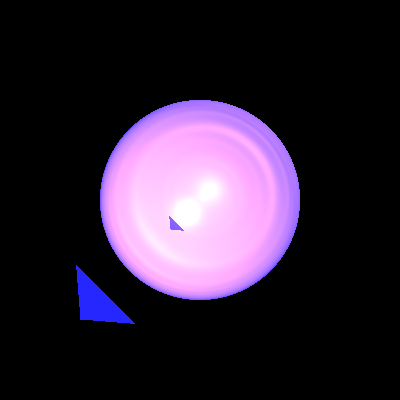
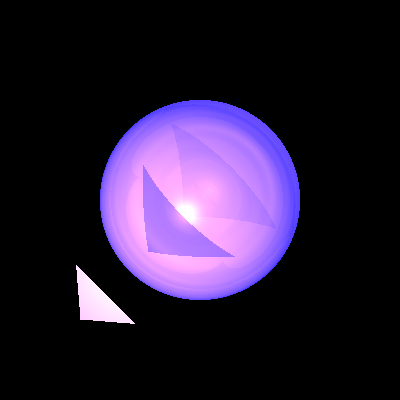
baratin encore une fois

Changed region(s): [[0.24, 0.24, 0.75, 0.75], [0.18, 0.66, 0.33, 0.81]]

diff --git a/src/renderer/RayTracerBasic.java b/src/renderer/RayTracerBasic.java
@@ -1,8 +1,9 @@
 package renderer;
 
+import geometries.Geometry;
 import geometries.Intersectable.*;
-import primitives.lighting.LightSource;
 import primitives.*;
+import primitives.lighting.LightSource;
 import scene.Scene;
 
 import java.util.List;
@@ -12,7 +13,6 @@ import static primitives.Util.isZero;
 
 public class RayTracerBasic extends RayTracer {
 
-    //those two methods will help us for the stop conditions in the recursion
     private static final double EPS = 0.1;
     private static final double MIN_CALC_COLOR_K = 0.001;
     private static final int MAX_CALC_COLOR_LEVEL = 10;
@@ -37,6 +37,12 @@ public class RayTracerBasic extends RayTracer {
                 .add(scene.getAmbientLight().getIntensity());
     }
 
+    //    private Color calcColor(GeoPoint gp, Ray ray) {
+//        Color color = scene.getAmbientLight().getIntensity();
+//        color = color.add(calcLocalEffects(gp, ray));
+//
+//        return color;
+//    }
     private Color calcColor(GeoPoint geoPoint, Ray ray, int level, Double3 k) {
         Color color = geoPoint.geometry.getEmission();
 
@@ -51,14 +57,14 @@ public class RayTracerBasic extends RayTracer {
         }
         Material material = geoPoint.geometry.getMaterial();
         color = color.add(calcLocalEffects(geoPoint, material, n, v, nv, k));
-        return 1 == level ? color : color.add(calcGlobalEffects(geoPoint, material, n, v, nv, level, k));
+        return 1 == level ? color : color.add(calcGlobalEffects(geoPoint, material,n,v,nv, level, k));
     }
 
     /**
      * //add here the lights effects
      *
-     * @param gp geopoint of the intersection
-     * @param v  ray direction
+     * @param gp  geopoint of the intersection
+     * @param v ray direction
      * @return resulting color with diffuse and specular
      */
     private Color calcLocalEffects(GeoPoint gp, Material material, Vector n, Vector v, double nv, Double3 k) {
@@ -70,12 +76,13 @@ public class RayTracerBasic extends RayTracer {
             Vector l = lightSource.getL(point);
             double nl = alignZero(n.dotProduct(l));
             if (nl * nv > 0) { // sign(nl) == sign(nv)
-                Double3 ktr = transparency(gp, lightSource, l, n);
+                Double3 ktr = transparency(lightSource, l, n, gp);
                 if (!ktr.product(k).lowerThan(MIN_CALC_COLOR_K)) {
+//                if (unshaded(gp, lightSource, l, n,nv)) {
                     Color iL = lightSource.getIntensity(point).scale(ktr);
                     color = color.add(
-                            calcDiffusive(material.getKd(), nl, iL),
-                            calcSpecular(material.getKs(), n, l, nl, v, material.getShininess(), iL));
+                            calcDiffusive(material.getKd(), nl,iL),
+                            calcSpecular(material.getKs(), n, l, nl, v,material.getShininess(),iL));
                 }
             }
         }
@@ -83,60 +90,22 @@ public class RayTracerBasic extends RayTracer {
     }
 
 
-    private Color calcSpecular(Double3 kS, Vector n, Vector l, double nl, Vector v, int shininess, Color intensity) {
+    private Color calcSpecular(Double3 kS, Vector n, Vector l, double nl,Vector v,int shininess,Color intensity) {
         Vector r = l.add(n.scale(-2 * nl)); // nl must not be zero!
         double minusVR = -alignZero(r.dotProduct(v));
         if (minusVR <= 0)
             return Color.BLACK; // view from direction opposite to r vector
-        Double3 amount = kS.scale(Math.pow(minusVR, shininess));
+        Double3 amount =kS.scale(Math.pow(minusVR, shininess));
         return intensity.scale(amount);
     }
 
-    private Color calcDiffusive(Double3 kD, double nl, Color intensity) {
+    private Color calcDiffusive(Double3 kD, double nl,  Color intensity) {
         double abs_nl = Math.abs(nl);
-        Double3 amount = kD.scale(abs_nl);
+        Double3 amount =kD.scale(abs_nl);
         return intensity.scale(amount);
     }
 
-    /**
-     * The function calculates the transparency of a point on a geometry, by checking if there are any other geometries
-     * between the point and the light source
-     *
-     * @param geoPoint The point on the geometry that we're currently shading.
-     * @param ls       the light source
-     * @param l        the vector from the point to the light source
-     * @param n        the normal vector of the point on the geometry
-     * @return The transparency of the point.
-     */
-    private Double3 transparency(GeoPoint geoPoint, LightSource ls, Vector l, Vector n) {
-        Vector lightDirection = l.scale(-1); // from point to light source
-        Ray lightRay = new Ray(geoPoint.point, lightDirection, n);
-        double lightDistance = ls.getDistance(geoPoint.point);
-        var intersections = scene.geometries.findGeoIntersections(lightRay);
-        if (intersections == null) return new Double3(1.0); //no intersection
-        Double3 ktr = new Double3(1.0);
-        for (GeoPoint gp : intersections) {
-            if (alignZero(gp.point.distance(geoPoint.point) - lightDistance) <= 0) {
-                //ktr *= gp.geometry.getMaterial().kT;
-                ktr = ktr.product(gp.geometry.getMaterial().kT);
-                if (ktr.lowerThan(MIN_CALC_COLOR_K))
-                    return Double3.ZERO;
-            }
-        }
-        return ktr;
-    }
-
-    /**
-     * @param gp       value for geoPoint
-     * @param material value for material
-     * @param n        value of the normal
-     * @param v        value of the directional vector
-     * @param nv       the dotProduct between the normal and the directional vector
-     * @param level    the value for the stop condition on the loop
-     * @param k        initial k -> 1.0
-     * @return the correct global effect
-     */
-    private Color calcGlobalEffects(GeoPoint gp, Material material, Vector n, Vector v, double nv, int level, Double3 k) {
+    private Color calcGlobalEffects(GeoPoint gp,Material material, Vector n, Vector v, double nv, int level, Double3 k) {
         Color color = Color.BLACK;
         Double3 kkr = material.getKr().product(k);
         if (!kkr.lowerThan(MIN_CALC_COLOR_K))
@@ -149,13 +118,6 @@ public class RayTracerBasic extends RayTracer {
     }
 
 
-    /**
-     * @param ray   value for ray
-     * @param level the value for stopped the loop
-     * @param kx    value for kx
-     * @param kkx   value for kkx
-     * @return if there isn't intersection's point return the color of the background, else go to calculate the right color
-     */
     private Color calcGlobalEffect(Ray ray, int level, Double3 kx, Double3 kkx) {
         GeoPoint gp = findClosestIntersection(ray);
         return (gp == null ? scene.getBackground() : calcColor(gp, ray, level - 1, kkx)).scale(kx);
@@ -178,6 +140,17 @@ public class RayTracerBasic extends RayTracer {
         return new Ray(pointGeo, n, r);
     }
 
+    /**
+     * The method checks whether there is any object shading the light source from a
+     * point
+     *
+     * @param gp the point with its geometry
+     * @param lightSource light source
+     * @param l  direction from light to the point
+     * @param n normal vector to the surface of gp
+     * @param nv dotproduct between n and ray direction
+     * @return accumulated transparency attenuation factor
+     */
 
     private boolean unshaded(GeoPoint gp, LightSource lightSource, Vector l, Vector n, double nv) {
 
@@ -188,12 +161,90 @@ public class RayTracerBasic extends RayTracer {
         Point pointRay = gp.point.add(delta);
         Ray lightRay = new Ray(pointRay, lightDirection);
 
-        double maxDistance = lightSource.getDistance(gp.point);
-        List<GeoPoint> intersections = scene.getGeometries().findGeoIntersections(lightRay, maxDistance);
+        double maxdistance = lightSource.getDistance(gp.point);
+        List<GeoPoint> intersections = scene.getGeometries().findGeoIntersections(lightRay, maxdistance);
 
-        return intersections == null;
+        if (intersections == null){
+            return true;
+        }
+
+        for (var item : intersections){
+            if (item.geometry.getMaterial().getKt().lowerThan(MIN_CALC_COLOR_K)){
+                return false;
+            }
+        }
+
+        return true;
     }
 
+    /**
+     * The method checks whether there is any object shading the light source from a
+     * point
+     *
+     * @param gp the point with its geometry
+     * @param ls light source
+     * @param l  direction from light to the point
+     * @return accumulated transparency attenuation factor
+     */
+    private boolean unshaded(GeoPoint gp,LightSource ls, Vector l) {
+        Vector n = gp.geometry.getNormal(gp.point);
+
+        Vector lightDirection = l.scale(-1); // from point to light source
+        Ray lightRay = new Ray(gp.point, lightDirection, n);
+
+        double lightDistance = ls.getDistance(gp.point);
+        var intersections = scene.getGeometries().findGeoIntersections(lightRay, lightDistance);
+        if (intersections == null)
+            return true;
+
+        Double3 tr = Double3.ONE;
+        for (var geo : intersections) {
+            tr = tr.product(geo.geometry.getMaterial().getKt());
+            if (tr.lowerThan(MIN_CALC_COLOR_K))
+                return false;
+        }
+
+        return true;
+    }
+
+
+    /**
+     * The method checks whether there is any object shading the light source from a
+     * point
+     *
+     * @param gp the point with its geometry
+     * @param lightSource light source
+     * @param l  direction from light to the point
+     * @param n normal vector from the surface towards the geometry
+     *
+     * @return accumulated transparency attenuation factor
+     */
+
+    private Double3 transparency(LightSource lightSource, Vector l, Vector n, GeoPoint gp) {
+        // Pay attention to your method of distance screening
+        Vector lightDirection = l.scale(-1); // from point to light source
+        Point point = gp.point;
+        Ray lightRay = new Ray(point, n, lightDirection);
+
+        double maxdistance = lightSource.getDistance(point);
+        List<GeoPoint> intersections = scene.getGeometries().findGeoIntersections(lightRay, maxdistance);
+
+        if (intersections == null)
+            return Double3.ONE;
+
+        Double3 ktr = Double3.ONE;
+//        loop over intersections and for each intersection which is closer to the
+//        point than the light source multiply ktr by 𝒌𝑻 of its geometry.
+//        Performance:
+//        if you get close to 0 –it’s time to get out( return 0)
+        for (var geo : intersections) {
+            ktr = ktr.product(geo.geometry.getMaterial().getKt());
+            if (ktr.lowerThan(MIN_CALC_COLOR_K)) {
+                return Double3.ZERO;
+            }
+        }
+        return ktr;
+    }
 
     private GeoPoint findClosestIntersection(Ray ray) {
         List<GeoPoint> intersections = scene.getGeometries().findGeoIntersections(ray);
@@ -204,3 +255,4 @@ public class RayTracerBasic extends RayTracer {
     }
 
 }
+

diff --git a/src/primitives/Ray.java b/src/primitives/Ray.java
@@ -119,12 +119,4 @@ public class Ray {
         return closestpoint;
     }
 
-    public Point findClosestPoint(List<Point> intersections) {
-        return intersections == null || intersections.isEmpty()
-                ? null
-                : findClosestGeoPoint(intersections.stream()
-                .map(p -> new GeoPoint(null, p))
-                .toList()
-        ).point;
-    }
 }
